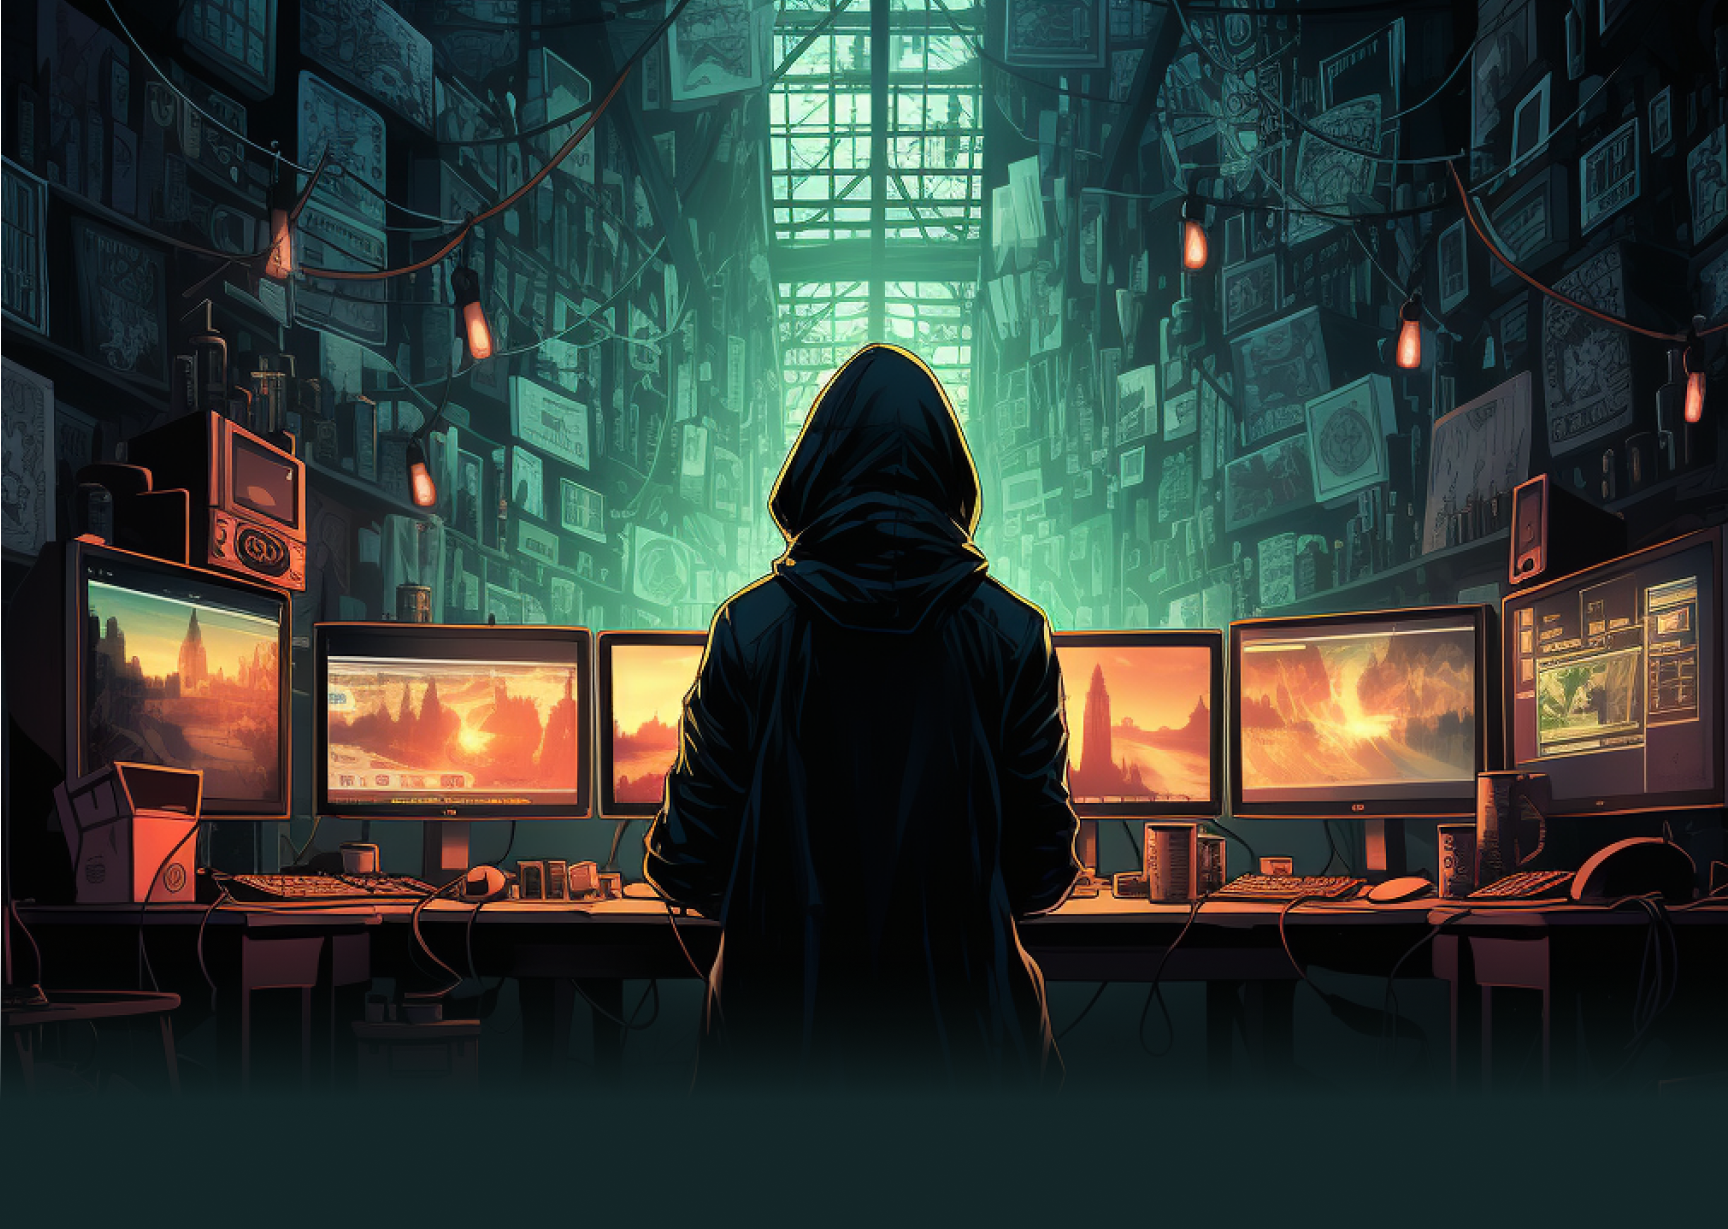
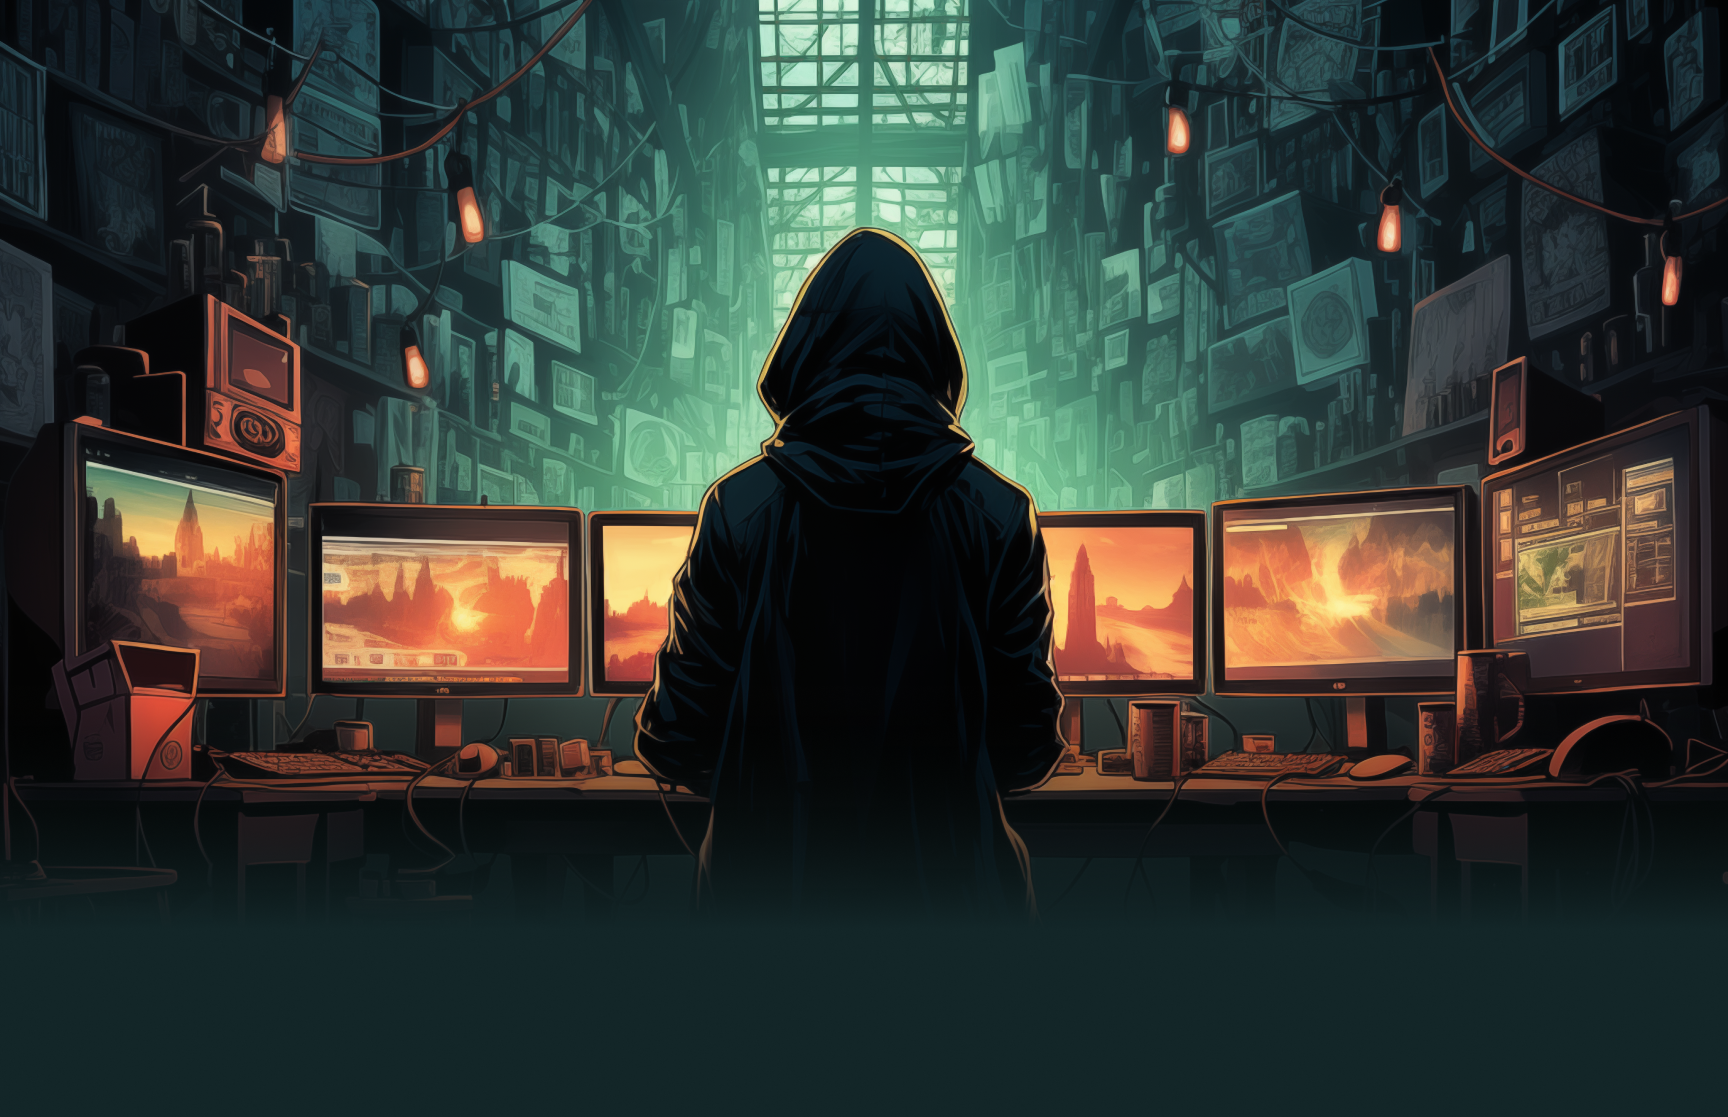
Added Welcome section

diff --git a/src/app/page.js b/src/app/page.js
@@ -6,6 +6,7 @@ import { Space_Mono, Ubuntu } from 'next/font/google'
 import { useScramble } from 'use-scramble';
 import ShareLocationIcon from '@mui/icons-material/ShareLocation';
 import CalendarMonthIcon from '@mui/icons-material/CalendarMonth';
+import Welcome from './components/Welcome';
 
  
 const space_mono = Space_Mono({ weight: '400', subsets: ['latin']})
@@ -22,29 +23,31 @@ export default function Home() {
     overdrive: false
   });
   return (
-    <main>
+    <main style={{overflow:"hidden", marginBottom:50}}>
       <Navbar />
-      <div style={{ position: 'relative', width: '100vw', height: '95vh' }}>
+      <div style={{ position: 'relative', width: '100vw', height: '100vh' }}>
         <Image
           src="/assets/main_landing.png"
           alt="Landing Page"
           layout="fill"
           objectFit="cover"
+          priority={true}
         />
       </div>
-      <div className="overlayText" >
-      <h1 className={space_mono.className} style={{fontWeight:"Bold"}} ref={ref}/>
-      <div className="overlayButtons">
-        <div style={{display:"flex", fontSize:30, textAlign:"left"}}>
-        <h2 className={ubuntu.className} ><CalendarMonthIcon style={{marginTop:-5}}/> March 23-24</h2>
-        <h2 className={ubuntu.className} style={{marginLeft:20}}><ShareLocationIcon style={{marginTop:-5, marginRight:5}}/>University of Virginia</h2>
+      <div className="overlayText">
+        <h1 className={space_mono.className} style={{fontWeight:"Bold", marginTop:25}} ref={ref}/>
+        <div className="overlayButtons">
+          <div className="dateLocation">
+          <h2 className={ubuntu.className} ><CalendarMonthIcon style={{marginTop:-5}}/> March 23-24</h2>
+          <h2 className={ubuntu.className}><ShareLocationIcon style={{marginTop:-5, marginRight:5}}/>University of Virginia</h2>
+        </div>
+      <div>
+      <button className="bg-orange-400 hover:bg-gray-500 text-white font-bold py-3 px-10 text-l rounded-full">Register</button>
+      <button className="bg-orange-400 hover:bg-gray-500 text-white font-bold py-3 px-10 text-l rounded-full" style={{ marginLeft: "30px", marginTop:"10px" }}>Sponsor</button>
       </div>
-      <div style={{textAlign:"left"}}>
-      <button className="bg-orange-400 hover:bg-gray-500 text-white font-bold py-3 px-10 text-xl rounded-full">Register</button>
-      <button className="bg-orange-400 hover:bg-gray-500 text-white font-bold py-3 px-10 text-xl rounded-full" style={{ marginLeft: "30px", marginTop:"10px" }}>Sponsor</button>
       </div>
       </div>
-      </div>
+      <Welcome />
      
     </main>
   );

diff --git a/src/app/components/Welcome.js b/src/app/components/Welcome.js
@@ -1,0 +1,52 @@
+import { useEffect, useRef, useState } from 'react';
+import Image from 'next/image';
+import { Space_Mono, Ubuntu } from 'next/font/google';
+import { useScramble } from 'use-scramble';
+import { useInView } from 'framer-motion';
+import { Replay } from '@mui/icons-material';
+import styles from '../globals.css';
+
+const space_mono = Space_Mono({ weight: '400', subsets: ['latin'] });
+const ubuntu = Ubuntu({ weight: '400', subsets: ['latin'] });
+
+export default function Welcome() {
+  const ref = useRef(null);
+  const isInView= useInView(ref, {once: true});
+
+  const { ref: textRef, replay } = useScramble({
+    text: "Powered by a passionate team of UVA students, HooHacks is Virginia's largest hackathon and ranks among the top 50 biggest collegiate hackathons nationwide.  Our team also organizes Ideathon, a tech entrepreneurship pitching event, and a series of workshops & events year-round. Our mission is to foster entrepreneurship and innovation by making computer science more accessible + fun at UVA and beyond!",
+    speed: 0.8,
+    tick: 1,
+    step: 10,
+    scramble: 5,
+    seed: 2,
+    chance: 1,
+    overdrive: true,
+    overflow: false,
+    playOnMount: false,
+  });
+
+  useEffect(() => {
+    console.log(isInView)
+    if (isInView) {
+        replay();
+    }
+  }, [isInView]);
+
+
+  return (
+    <div style={{ marginTop: 80, position:'relative',margin:"auto"}}>
+      <div className='welcomeBox'>
+        <div className='welcomeGap'/>
+        <h2 className={ubuntu.className + " welcomeTitle"} style={{textAlign: 'center'}}ref={ref}> WELCOME!</h2>
+        <p
+          className={space_mono.className + " welcomeText"}
+          ref={textRef}
+          style={{textAlign: 'center'}}
+        >
+        </p>
+      </div>
+      <img src="/assets/lasers.png" alt="lasers" style={{width:"100%", minHeight:800}}/>
+    </div>
+  );
+}

diff --git a/src/app/globals.css b/src/app/globals.css
@@ -43,10 +43,37 @@ body {
   margin-top: 15px;
 }
 
+.dateLocation{
+  font-size: 25px;
+  text-align:"left";
+}
 
+.welcomeBox{
+  width: 80vw;
+  height:fit-content;
+  border-radius: 10px;
+  background: rgba(35, 51, 50, 0.80);
+  top:100px;
+  left:10%;
+  position:absolute;
+  margin-left: auto; 
+  margin-right: auto; 
+}
+.welcomeGap{
+  height: 100px;
+}
+.welcomeText{
+  font-size: 25px;
+  margin-left: 2vw;
+  margin-right: 2vw;
+  margin-bottom: 100px;
+}
+.welcomeTitle{
+  font-size: 50px;
 
+}
 h1 {
-  font-size: 125px;
+  font-size: 110px;
   line-height: 1;
 }
 
@@ -64,6 +91,20 @@ h1 {
   .overlayButtons {
     margin-top: 10px;
     margin-left: 0px;
+  }
+  .welcomeText{
+    font-size: 15px;
+    margin-bottom:20px;
+  }
+  .welcomeGap{
+    height: 20px;
+  }
+  .welcomeTitle{
+    font-size: 40px;
+  }
+  .welcomeBox{
+    left:3%;
+    width:95vw;
   }
 }
 

diff --git a/src/app/layout.js b/src/app/layout.js
@@ -4,7 +4,7 @@ import './globals.css'
 const inter = Inter({ subsets: ['latin'] })
 
 export const metadata = {
-  title: 'Create Next App',
+  title: 'HooHacks',
   description: 'Generated by create next app',
 }
 
